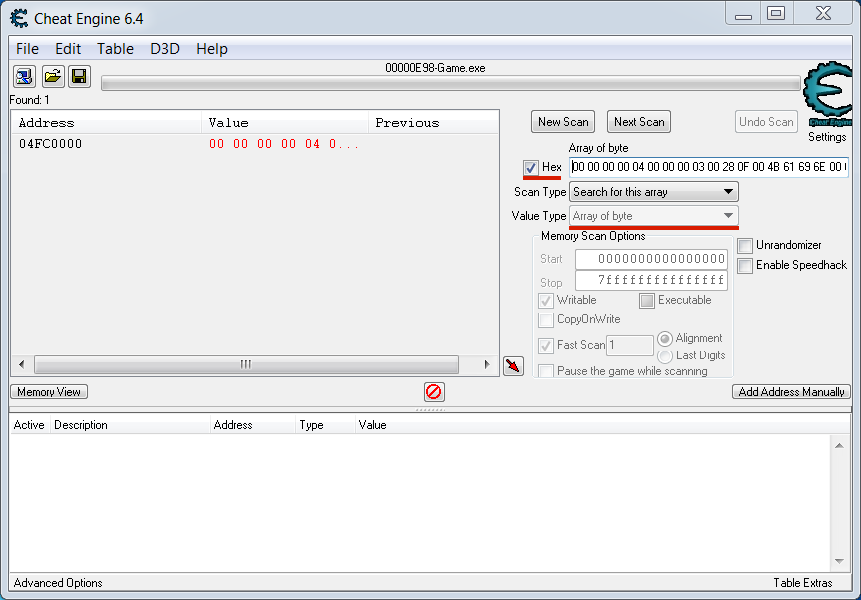
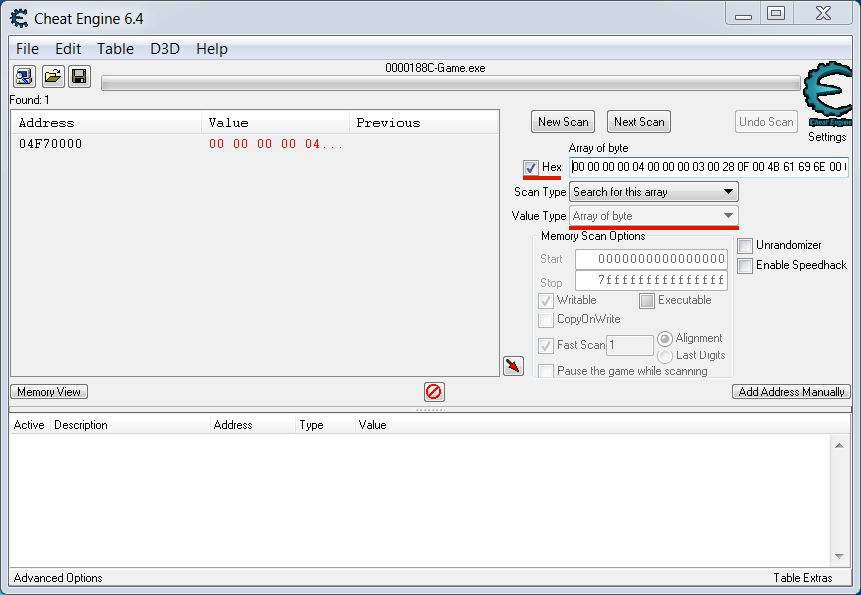
- Make new "magic-numbers-search.png" picture - Comments new picture in the "Example with Diablo 2" section

diff --git a/InGameBots/example.md b/InGameBots/example.md
@@ -168,6 +168,8 @@ This set of unchanged bytes can be used as [**magic numbers**](https://en.wikipe
 
 ![Magic Numbers Search](magic-numbers-search.png)
 
+You can see that the address of a charcter's object has been changed. Now the address is equal to "04F70000". But offsets of all object's parameters are still the same. It means that the new address of the charcter's life parameter equals to "04F70490".
+
 ## Bot Implementation
 
 >> CONTINUE
@@ -179,11 +181,7 @@ TODO: Write the resulting bot's algorithm:
 
 TODO: Describe a method of searching magic numbers of an object in the memory by bot. Give a link to video lesson with the code example.
 
-## Another Bot Variants
-
-TODO: Describe a method of searching monsters' coordinates in the memory.
-
-TODO: Write about ideas to emulate the player's actions.
+### Further Improvements
 
 ## Summary
 
